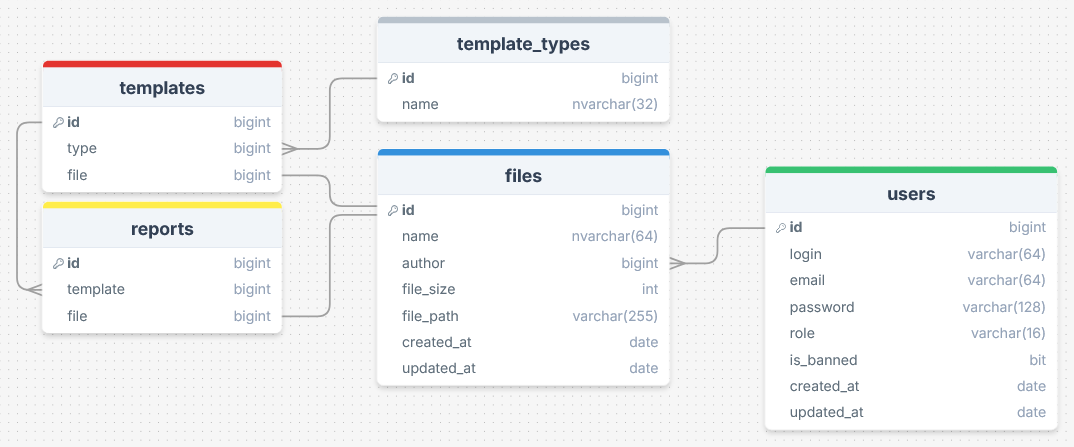
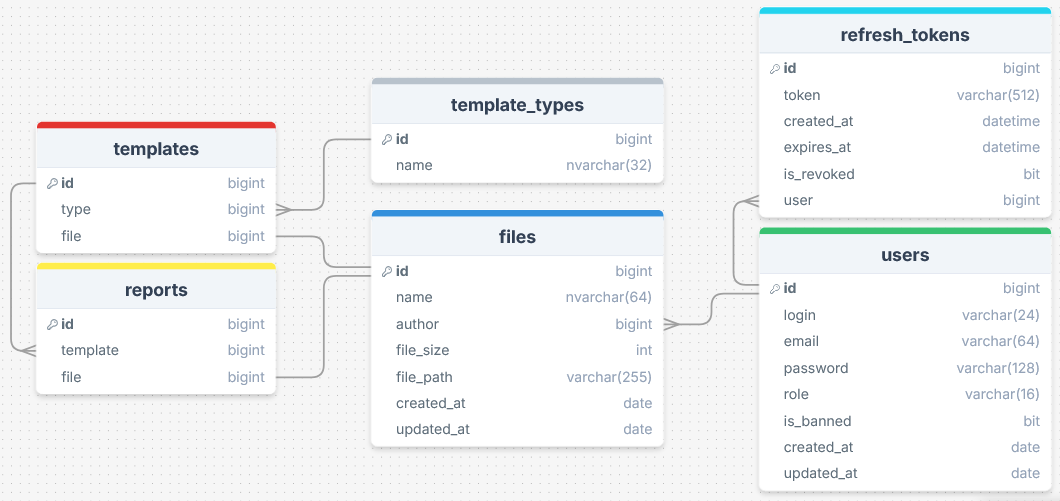
RefreshToken Add

diff --git a/App/ZvitPlus.DAL/Context/Configuration/UserConfiguration.cs b/App/ZvitPlus.DAL/Context/Configuration/UserConfiguration.cs
@@ -14,46 +14,44 @@ namespace ZvitPlus.DAL.Context.Configuration
 
             builder.Property(u => u.Login)
                 .HasColumnName("login")
-                .IsRequired()
-                .HasMaxLength(64)
-                .HasColumnType("varchar(64)");
+                .HasColumnType("varchar(24)")
+                .HasMaxLength(24)
+                .IsRequired();
 
             builder.Property(u => u.Email)
                 .HasColumnName("email")
-                .IsRequired()
+                .HasColumnType("varchar(64)")
                 .HasMaxLength(64)
-                .HasColumnType("varchar(64)");
+                .IsRequired();
 
             builder.Property(u => u.Password)
                 .HasColumnName("password")
-                .IsRequired()
+                .HasColumnType("varchar(128)")
                 .HasMaxLength(128)
-                .HasColumnType("varchar(128)");
+                .IsRequired();
 
             builder.Property(u => u.Role)
                 .HasColumnName("role")
-                .IsRequired()
-                .HasConversion<string>()
+                .HasColumnType("varchar(16)")
                 .HasMaxLength(16)
-                .HasColumnType("varchar(16)");
+                .HasConversion<string>()
+                .IsRequired();
 
             builder.Property(u => u.IsBanned)
                 .HasColumnName("is_banned")
-                .HasDefaultValue(false);
+                .HasColumnType("bit")
+                .HasDefaultValue(false)
+                .IsRequired();
 
             builder.Property(u => u.CreatedAt)
                 .HasColumnName("created_at")
+                .HasColumnType("datetime")
                 .IsRequired();
 
             builder.Property(u => u.UpdatedAt)
                 .HasColumnName("updated_at")
+                .HasColumnType("datetime")
                 .IsRequired();
-
-            //builder.HasMany(u => u.Files)
-            //    .WithOne(f => f.Author)
-            //    .HasForeignKey(f => f.AuthorId)
-            //    .HasConstraintName("fk_file_author")
-            //    .OnDelete(DeleteBehavior.Restrict);
 
             builder.HasIndex(u => u.Login)
                 .HasDatabaseName("idx_users_login")

diff --git a/App/ZvitPlus.DAL/Context/Configuration/FileConfiguration.cs b/App/ZvitPlus.DAL/Context/Configuration/FileConfiguration.cs
@@ -14,30 +14,34 @@ namespace ZvitPlus.DAL.Context.Configuration
 
             builder.Property(f => f.Name)
                 .HasColumnName("name")
-                .IsRequired()
+                .HasColumnType("nvarchar(64)")
                 .HasMaxLength(64)
-                .HasColumnType("nvarchar(64)");
+                .IsRequired();
 
             builder.Property(f => f.AuthorId)
                 .HasColumnName("author")
+                .HasColumnType("uniqueidentifier")
                 .IsRequired();
 
             builder.Property(f => f.FileSize)
                 .HasColumnName("file_size")
+                .HasColumnType("bigint")
                 .IsRequired();
 
             builder.Property(f => f.FilePath)
                 .HasColumnName("file_path")
-                .IsRequired()
+                .HasColumnType("varchar(255)")
                 .HasMaxLength(255)
-                .HasColumnType("varchar(255)");
+                .IsRequired();
 
             builder.Property(f => f.CreatedAt)
                 .HasColumnName("created_at")
+                .HasColumnType("datetime")
                 .IsRequired();
 
             builder.Property(f => f.UpdatedAt)
                 .HasColumnName("updated_at")
+                .HasColumnType("datetime")
                 .IsRequired();
 
             builder.HasOne(f => f.Author)
@@ -45,18 +49,6 @@ namespace ZvitPlus.DAL.Context.Configuration
                 .HasForeignKey(f => f.AuthorId)
                 .HasConstraintName("fk_files_users_author_id")
                 .OnDelete(DeleteBehavior.Restrict);
-
-            //builder.HasOne(f => f.Template)
-            //    .WithOne(t => t.File)
-            //    .HasForeignKey<Template>(t => t.FileId)
-            //    .HasConstraintName("fk_template_file")
-            //    .OnDelete(DeleteBehavior.Cascade);
-
-            //builder.HasOne(f => f.Report)
-            //    .WithOne(r => r.File)
-            //    .HasForeignKey<Report>(r => r.FileId)
-            //    .HasConstraintName("fk_report_file")
-            //    .OnDelete(DeleteBehavior.Cascade);
 
             builder.HasIndex(f => f.AuthorId)
                 .HasDatabaseName("idx_files_author_id");

diff --git a/App/ZvitPlus.DAL/Context/Configuration/RefreshTokenConfiguration.cs b/App/ZvitPlus.DAL/Context/Configuration/RefreshTokenConfiguration.cs
@@ -1,0 +1,46 @@
+using Microsoft.EntityFrameworkCore;
+using Microsoft.EntityFrameworkCore.Metadata.Builders;
+using ZvitPlus.DAL.Models.Entities;
+
+namespace ZvitPlus.DAL.Context.Configuration
+{
+    public class RefreshTokenConfiguration : BaseEntityConfiguration<RefreshToken>
+    {
+        public override void Configure(EntityTypeBuilder<RefreshToken> builder)
+        {
+            base.Configure(builder);
+
+            builder.ToTable("refresh_tokens");
+
+            builder.Property(rf => rf.Token)
+                .HasColumnName("token")
+                .HasColumnType("varchar(512)")
+                .HasMaxLength(512)
+                .IsRequired();
+
+            builder.Property(rf => rf.CreatedAt)
+                .HasColumnName("created_at")
+                .HasColumnType("datetime")
+                .IsRequired();
+
+            builder.Property(rf => rf.ExpiresAt)
+                .HasColumnName("expires_at")
+                .HasColumnType("datetime")
+                .IsRequired();
+
+            builder.Property(rf => rf.IsRevoked)
+                .HasColumnName("is_revoked")
+                .HasColumnType("bit")
+                .HasDefaultValue(false)
+                .IsRequired();
+
+            // RefreshToken - User (N : 1)
+            builder.HasOne(rf => rf.User)
+                .WithMany(u => u.RefreshToken)
+                .HasForeignKey(rf => rf.UserId)
+                .HasConstraintName("fk_refresh_tokens_users_user_id")
+                .OnDelete(DeleteBehavior.Cascade)
+                .IsRequired();
+        }
+    }
+}

diff --git a/App/ZvitPlus.DAL/Context/Configuration/TemplateConfiguration.cs b/App/ZvitPlus.DAL/Context/Configuration/TemplateConfiguration.cs
@@ -14,29 +14,27 @@ namespace ZvitPlus.DAL.Context.Configuration
 
             builder.Property(t => t.TemplateTypeId)
                 .HasColumnName("template_type")
+                .HasColumnType("uniqueidentifier")
                 .IsRequired();
 
             builder.Property(t => t.FileId)
                 .HasColumnName("file")
+                .HasColumnType("uniqueidentifier")
                 .IsRequired();
 
             builder.HasOne(t => t.TemplateType)
                 .WithMany(tt => tt.Templates)
                 .HasForeignKey(t => t.TemplateTypeId)
                 .HasConstraintName("fk_templates_template_types_id")
-                .OnDelete(DeleteBehavior.Restrict);
+                .OnDelete(DeleteBehavior.Restrict)
+                .IsRequired();
 
             builder.HasOne(t => t.File)
                 .WithOne(f => f.Template)
                 .HasForeignKey<Template>(t => t.FileId)
                 .HasConstraintName("fk_templates_files_id")
-                .OnDelete(DeleteBehavior.Cascade);
-
-            //builder.HasMany(t => t.Reports)
-            //    .WithOne(r => r.Template)
-            //    .HasForeignKey(r => r.TemplateId)
-            //    .HasConstraintName("fk_report_template")
-            //    .OnDelete(DeleteBehavior.Restrict);
+                .OnDelete(DeleteBehavior.Cascade)
+                .IsRequired();
 
             builder.HasIndex(t => t.TemplateTypeId)
                 .HasDatabaseName("idx_templates_template_type_id");

diff --git a/App/ZvitPlus.DAL/Context/Configuration/ReportConfiguration.cs b/App/ZvitPlus.DAL/Context/Configuration/ReportConfiguration.cs
@@ -14,23 +14,27 @@ namespace ZvitPlus.DAL.Context.Configuration
 
             builder.Property(r => r.TemplateId)
                 .HasColumnName("template")
+                .HasColumnType("uniqueidentifier")
                 .IsRequired();
 
             builder.Property(r => r.FileId)
                 .HasColumnName("file")
+                .HasColumnType("uniqueidentifier")
                 .IsRequired();
 
             builder.HasOne(r => r.Template)
                 .WithMany(t => t.Reports)
                 .HasForeignKey(r => r.TemplateId)
                 .HasConstraintName("fk_reports_templates_id")
-                .OnDelete(DeleteBehavior.Restrict);
+                .OnDelete(DeleteBehavior.Restrict)
+                .IsRequired();
 
             builder.HasOne(r => r.File)
                 .WithOne(f => f.Report)
                 .HasForeignKey<Report>(r => r.FileId)
                 .HasConstraintName("fk_reports_files_id")
-                .OnDelete(DeleteBehavior.Cascade);
+                .OnDelete(DeleteBehavior.Cascade)
+                .IsRequired();
 
             builder.HasIndex(r => r.TemplateId)
                 .HasDatabaseName("idx_reports_template_id");

diff --git a/App/ZvitPlus.BLL/DTOs/AuthDTOs/RegisterDTO.cs b/App/ZvitPlus.BLL/DTOs/AuthDTOs/RegisterDTO.cs
@@ -5,8 +5,8 @@ namespace ZvitPlus.BLL.DTOs.AuthDTOs
     public class RegisterDTO
     {
         [Required(ErrorMessage = "Логін обов'язковий")]
-        [MinLength(8, ErrorMessage = "Логін повинен містити мінімум 8 символи")]
-        [MaxLength(64, ErrorMessage = "Логін не може перевищувати 64 символи")]
+        [MinLength(4, ErrorMessage = "Логін повинен містити мінімум 4 символи")]
+        [MaxLength(16, ErrorMessage = "Логін не може перевищувати 16 символів")]
         [RegularExpression(@"^[a-zA-Z0-9_.-]+$", ErrorMessage = "Логін може містити лише літери, цифри, крапки, тире та підкреслення")]
         public required string Login { get; set; }
 

diff --git a/App/ZvitPlus.DAL/Context/ZvitPlusDbContext.cs b/App/ZvitPlus.DAL/Context/ZvitPlusDbContext.cs
@@ -12,6 +12,7 @@ namespace ZvitPlus.DAL.Context
         public DbSet<Template> Templates { get; set; }
         public DbSet<TemplateType> TemplateTypes { get; set; }
         public DbSet<Report> Reports { get; set; }
+        public DbSet<RefreshToken> RefreshTokens { get; set; }
 
         protected override void OnModelCreating(ModelBuilder modelBuilder)
         {
@@ -22,6 +23,7 @@ namespace ZvitPlus.DAL.Context
             modelBuilder.ApplyConfiguration(new TemplateTypeConfiguration());
             modelBuilder.ApplyConfiguration(new TemplateConfiguration());
             modelBuilder.ApplyConfiguration(new ReportConfiguration());
+            modelBuilder.ApplyConfiguration(new RefreshTokenConfiguration());
         }
     }
 }

diff --git a/App/ZvitPlus.DAL/Context/Configuration/TemplateTypeConfiguration.cs b/App/ZvitPlus.DAL/Context/Configuration/TemplateTypeConfiguration.cs
@@ -14,15 +14,9 @@ namespace ZvitPlus.DAL.Context.Configuration
 
             builder.Property(tt => tt.Name)
                 .HasColumnName("name")
-                .IsRequired()
+                .HasColumnType("nvarchar(32)")
                 .HasMaxLength(32)
-                .HasColumnType("nvarchar(32)");
-
-            //builder.HasMany(tt => tt.Templates)
-            //    .WithOne(t => t.TemplateType)
-            //    .HasForeignKey(t => t.TemplateTypeId)
-            //    .HasConstraintName("fk_template_template_type")
-            //    .OnDelete(DeleteBehavior.Restrict);
+                .IsRequired();
 
             builder.HasIndex(tt => tt.Name)
                 .HasDatabaseName("idx_template_types_name")

diff --git a/App/ZvitPlus.API/Controllers/AuthController.cs b/App/ZvitPlus.API/Controllers/AuthController.cs
@@ -8,14 +8,14 @@ namespace ZvitPlus.API.Controllers
     public class AuthController : ControllerBase
     {
         [HttpPost("register")]
-        public async Task<ActionResult<TokenDTO>> RegisterAsync(RegisterDTO dto)
+        public async Task<ActionResult<TokenDTO>> RegisterAsync([FromForm] RegisterDTO dto, CancellationToken ct = default)
         {
             //var result = await ...
             return Ok();
         }
 
         [HttpPost("login")]
-        public async Task<ActionResult<TokenDTO>> LoginAsync(LoginDTO dto)
+        public async Task<ActionResult<TokenDTO>> LoginAsync(LoginDTO dto, CancellationToken ct = default)
         {
             //var result = await ...
             return Ok();

diff --git a/App/ZvitPlus.DAL/Context/Configuration/BaseEntityConfiguration.cs b/App/ZvitPlus.DAL/Context/Configuration/BaseEntityConfiguration.cs
@@ -10,7 +10,12 @@ namespace ZvitPlus.DAL.Context.Configuration
         public virtual void Configure(EntityTypeBuilder<T> builder)
         {
             builder.HasKey(e => e.Id);
-            builder.Property(e => e.Id).HasColumnName("id");
+
+            builder.Property(e => e.Id)
+                .HasColumnName("id")
+                .HasColumnType("uniqueidentifier")
+                .IsRequired()
+                .ValueGeneratedOnAdd();
         }
     }
 }

diff --git a/App/ZvitPlus.DAL/Models/Entities/Template.cs b/App/ZvitPlus.DAL/Models/Entities/Template.cs
@@ -4,8 +4,8 @@
     {
         public Guid TemplateTypeId { get; set; }
         public Guid FileId { get; set; }
-        public TemplateType? TemplateType { get; set; }
-        public FileEntity? File { get; set; }
+        public virtual TemplateType? TemplateType { get; set; }
+        public virtual FileEntity? File { get; set; }
         public virtual ICollection<Report> Reports { get; set; } = [];
     }
 }

diff --git a/App/ZvitPlus.DAL/Models/Entities/RefreshToken.cs b/App/ZvitPlus.DAL/Models/Entities/RefreshToken.cs
@@ -1,0 +1,12 @@
+namespace ZvitPlus.DAL.Models.Entities
+{
+    public class RefreshToken : BaseEntity
+    {
+        public required string Token { get; set; }
+        public Guid UserId { get; set; }
+        public DateTime CreatedAt { get; set; }
+        public DateTime ExpiresAt { get; set; }
+        public bool IsRevoked { get; set; }
+        public virtual User? User { get; set; }
+    }
+}
